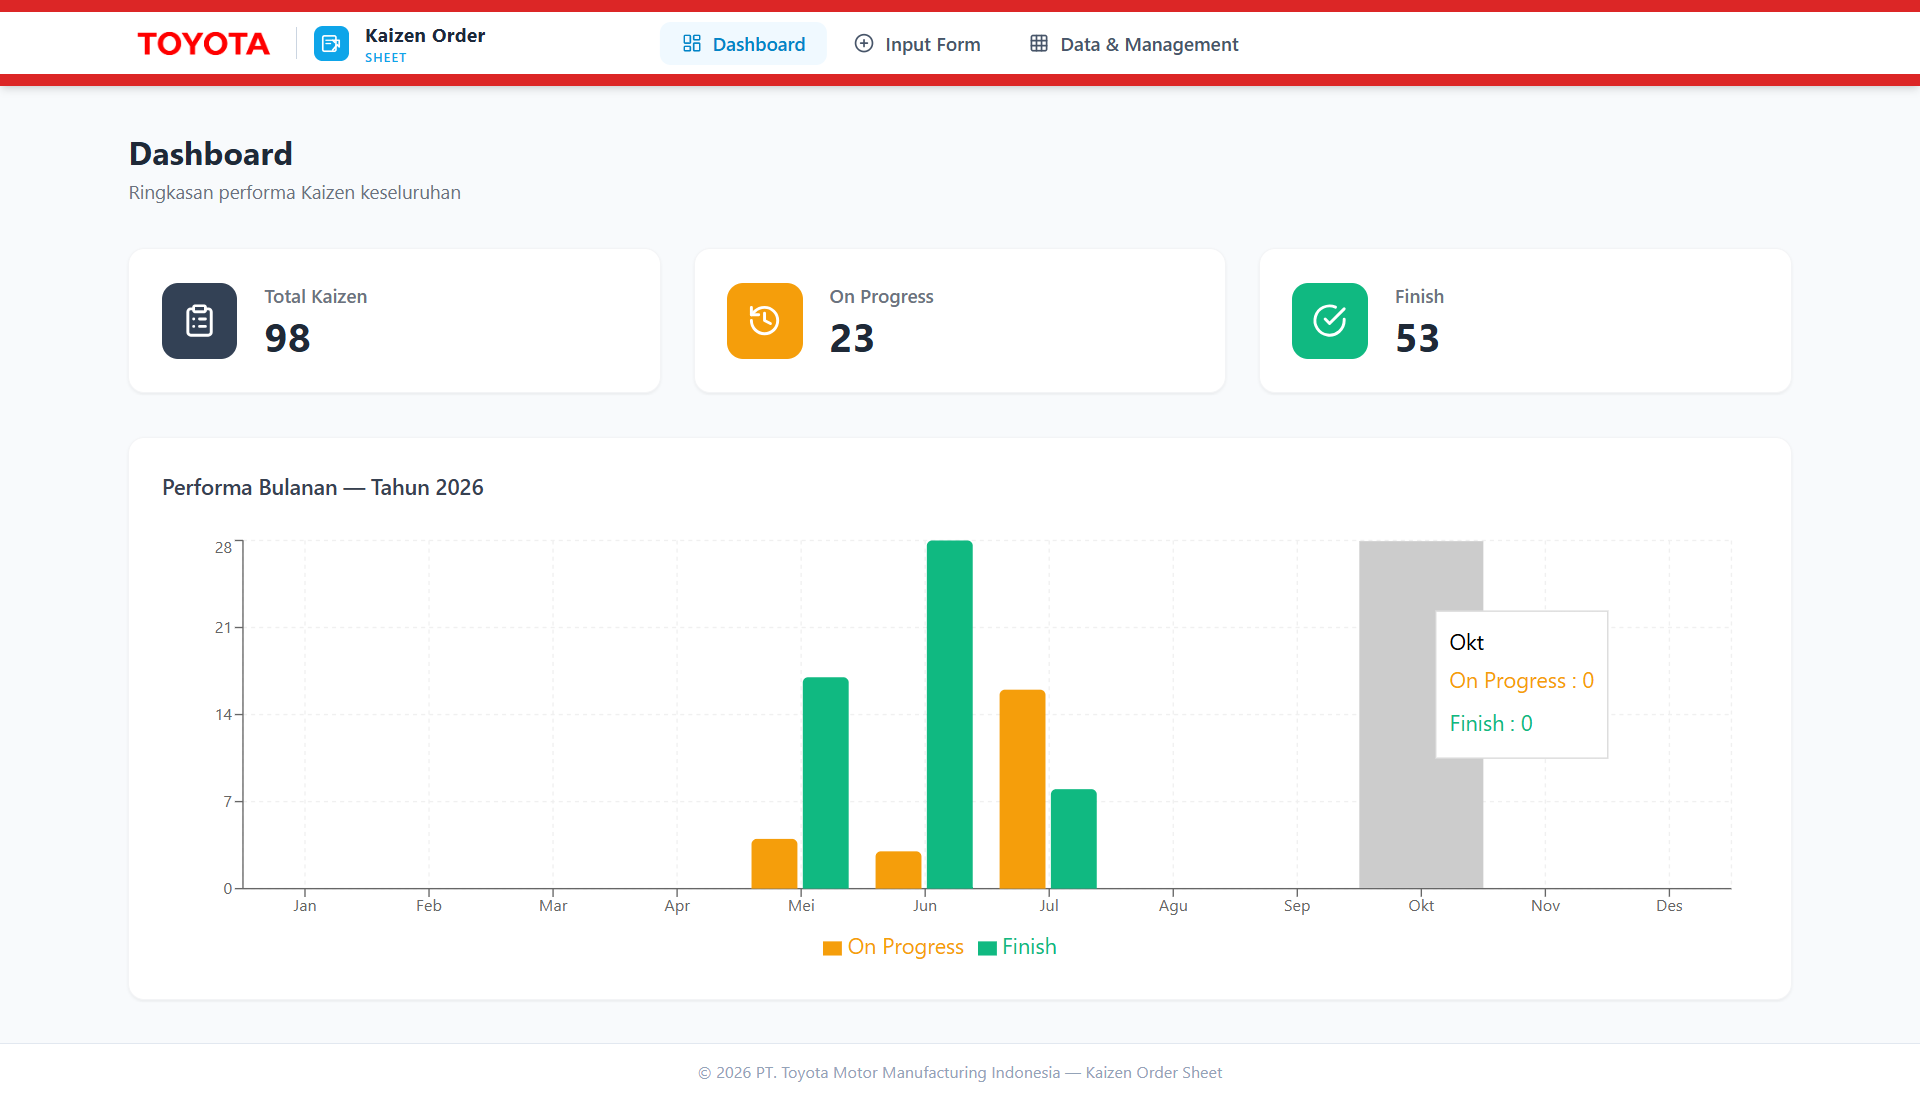
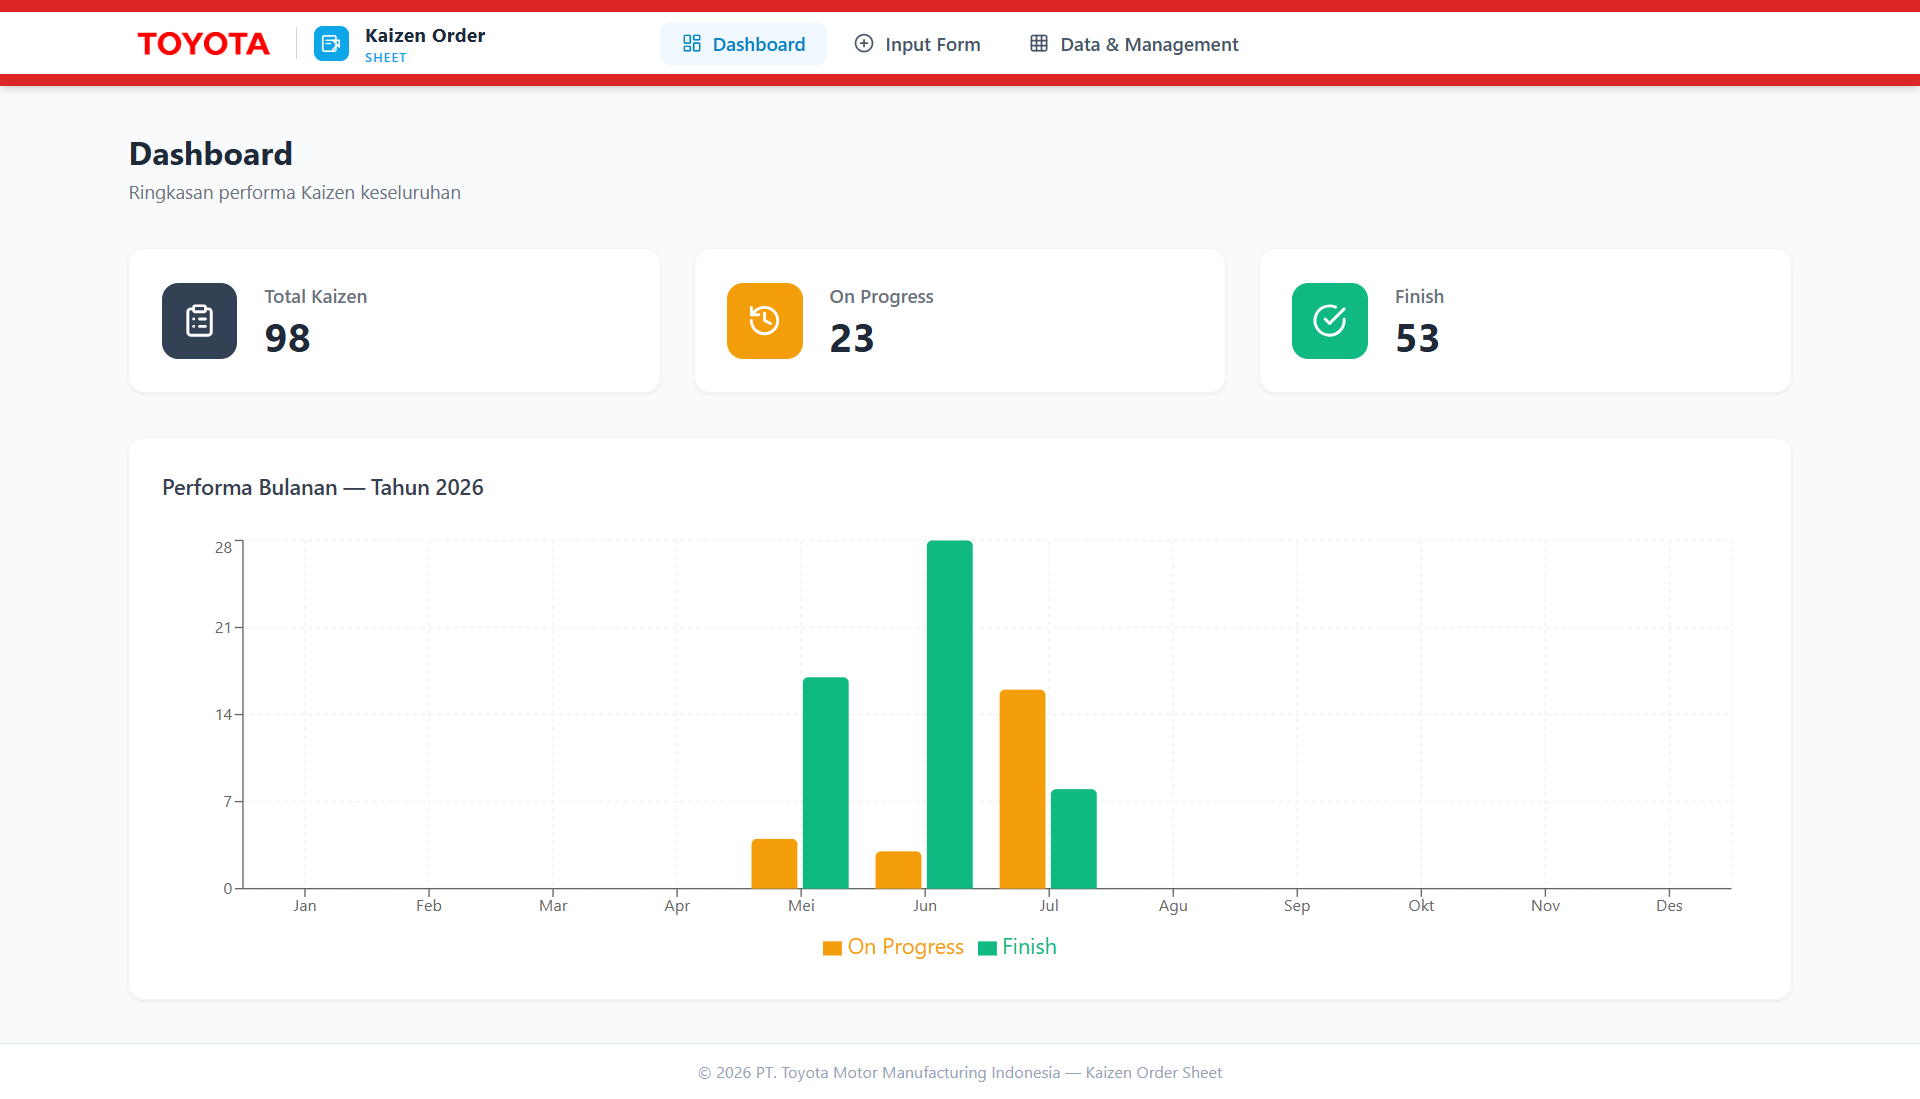
feat: wire in third screenshot per app for the showcase gallery

Changed region(s): [[0.6875, 0.495, 0.7812, 0.8353], [0.7812, 0.6187, 0.8125, 0.6497]]

diff --git a/src/lib/appAssets.ts b/src/lib/appAssets.ts
@@ -8,10 +8,12 @@ export const APP_ASSET_IMAGES: Record<string, string[]> = {
   'e-henkaten': [
     '/asset/e-henkaten/screencapture-e-henkaten-netlify-app-2026-07-31-23_11_47.png',
     '/asset/e-henkaten/screencapture-e-henkaten-netlify-app-2026-07-31-23_12_15.png',
+    '/asset/e-henkaten/screencapture-recap-report-vercel-app-api-reports-cms5f0q7j000004l43rbuaxyn-download-2026-08-01-10_55_46.png',
   ],
   'form-bnf': [
     '/asset/form-bnf/screencapture-bnf-form-netlify-app-2026-07-31-23_14_25.png',
     '/asset/form-bnf/screencapture-bnf-form-netlify-app-preview-2026-07-31-23_15_26.png',
+    '/asset/form-bnf/Screenshot%202026-08-01%20110021.png',
   ],
   'kaizen-order-sheet': [
     '/asset/kaizen-order-sheet/screencapture-kaizen-order-sheet-netlify-app-2026-07-31-23_16_06.png',
@@ -26,6 +28,7 @@ export const APP_ASSET_IMAGES: Record<string, string[]> = {
   'rekap-laporan-5w': [
     '/asset/rekap-laporan-5w/screencapture-recap-report-vercel-app-2026-07-31-23_19_55.png',
     '/asset/rekap-laporan-5w/screencapture-recap-report-vercel-app-rekap-2026-07-31-23_21_47.png',
+    '/asset/rekap-laporan-5w/screencapture-recap-report-vercel-app-api-reports-cms5f0q7j000004l43rbuaxyn-download-2026-08-01-10_55_46.png',
   ],
   'voice-member': [
     '/asset/voice-member/screencapture-voice-member-app-netlify-app-login-2026-07-31-23_17_36.png',
